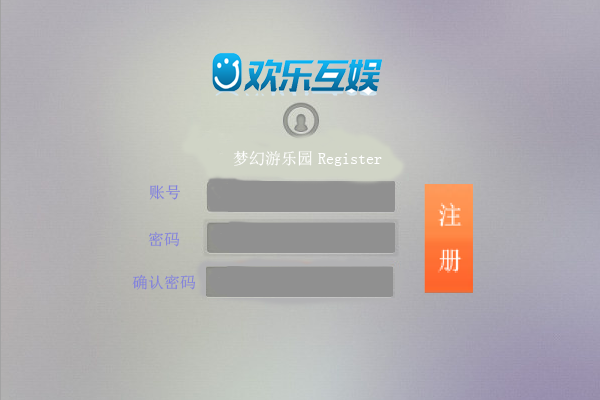
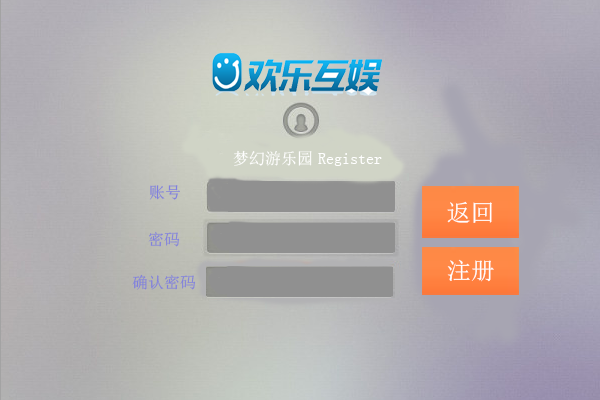
add traveler logIn and optim registerScene

Changed region(s): [[0.69, 0.45, 0.87, 0.75]]

diff --git a/Classes/LogInScene.cpp b/Classes/LogInScene.cpp
@@ -16,6 +16,8 @@ bool LogInScene::init(){
 	auto bgSprite = Sprite::create("login.png");
 	float rateX = vSize.width/bgSprite->getContentSize().width;
 	float rateY = vSize.height/bgSprite->getContentSize().height;
+
+	log("%f %f",rateX,rateY);
 	bgSprite->setPosition(vSize/2);
 	bgSprite->setScaleX(rateX);
 	bgSprite->setScaleY(rateY);
@@ -36,8 +38,10 @@ bool LogInScene::init(){
 
 	Rect rectPID = Rect(210*rateX,190*rateY,175*rateX,30*rateY);
 	Rect rectPSW = Rect(210*rateX,148*rateY,175*rateX,30*rateY);
-	Rect rectLOG = Rect(210*rateX,109*rateY,175*rateX,30*rateY);
+	Rect rectLOG = Rect(310*rateX,109*rateY,75*rateX,30*rateY);
+	Rect rectFLOG= Rect(210*rateX,109*rateY,75*rateX,30*rateY);
 	Rect rectREG = Rect(414*rateX,150*rateY,32*rateX,62*rateY);
+
 
 	auto listener = EventListenerTouchOneByOne::create();
 	listener->onTouchBegan = [=](Touch* touch,Event* evt){
@@ -54,6 +58,9 @@ bool LogInScene::init(){
 		}else if( rectLOG.containsPoint(touch->getLocation()) ){
 			log("SUCCESS");
 			logIn();
+		}else if(rectFLOG.containsPoint(touch->getLocation()) ){
+			log("FastLogIn");
+			logInSuccess();
 		}else if( rectREG.containsPoint(touch->getLocation()) ){
 			log("Register");
 			Director::getInstance()->replaceScene(RegisterScene::createScene());

diff --git a/Classes/RegisterScene.cpp b/Classes/RegisterScene.cpp
@@ -40,7 +40,8 @@ bool RegisterScene::init(){
 	Rect rectPID = Rect(210*rateX,190*rateY,175*rateX,30*rateY);
 	Rect rectPSW = Rect(210*rateX,148*rateY,175*rateX,30*rateY);
 	Rect rectPSWS = Rect(210*rateX,109*rateY,175*rateX,30*rateY);
-	Rect rectREG = Rect(424*rateX,108*rateY,49*rateX,108*rateY);
+	Rect rectREG = Rect(422*rateX,105*rateY,97*rateX,48*rateY);
+	Rect rectBACK = Rect(422*rateX,162*rateY,97*rateX,50*rateY);
 
 	auto listener = EventListenerTouchOneByOne::create();
 	listener->onTouchBegan = [=](Touch* touch,Event* evt){
@@ -66,6 +67,8 @@ bool RegisterScene::init(){
 			if(TextFieldPSW->getString().size()<3)	invalidPSW();
 			else if(TextFieldPSW->getString() == TextFieldPSWS->getString())	registerID();
 			else wrongPSW();
+		}else if(rectBACK.containsPoint(touch->getLocation()) ){
+			Director::getInstance()->replaceScene(LogInScene::createScene());
 		}else{
 			TextFieldPID->detachWithIME();
 			TextFieldPSW->detachWithIME();

diff --git a/Classes/AppDelegate.cpp b/Classes/AppDelegate.cpp
@@ -86,10 +86,10 @@ bool AppDelegate::applicationDidFinishLaunching() {
 	ArmatureDataManager::getInstance()->addArmatureFileInfo("bullet2/bullet20.png",
 		"bullet2/bullet20.plist","bullet2/bullet2.ExportJson");
 	//auto scene = StartScene::createScene();
-	//auto scene = LogInScene::createScene();
+	auto scene = LogInScene::createScene();
 	//auto scene = Standing::createScene();
 	//auto scene = NewLogIn::createScene();
-	auto scene = MainScene::createScene();
+	//auto scene = MainScene::createScene();
 	//auto scene = Splash::createScene(); 
 
 	// run
